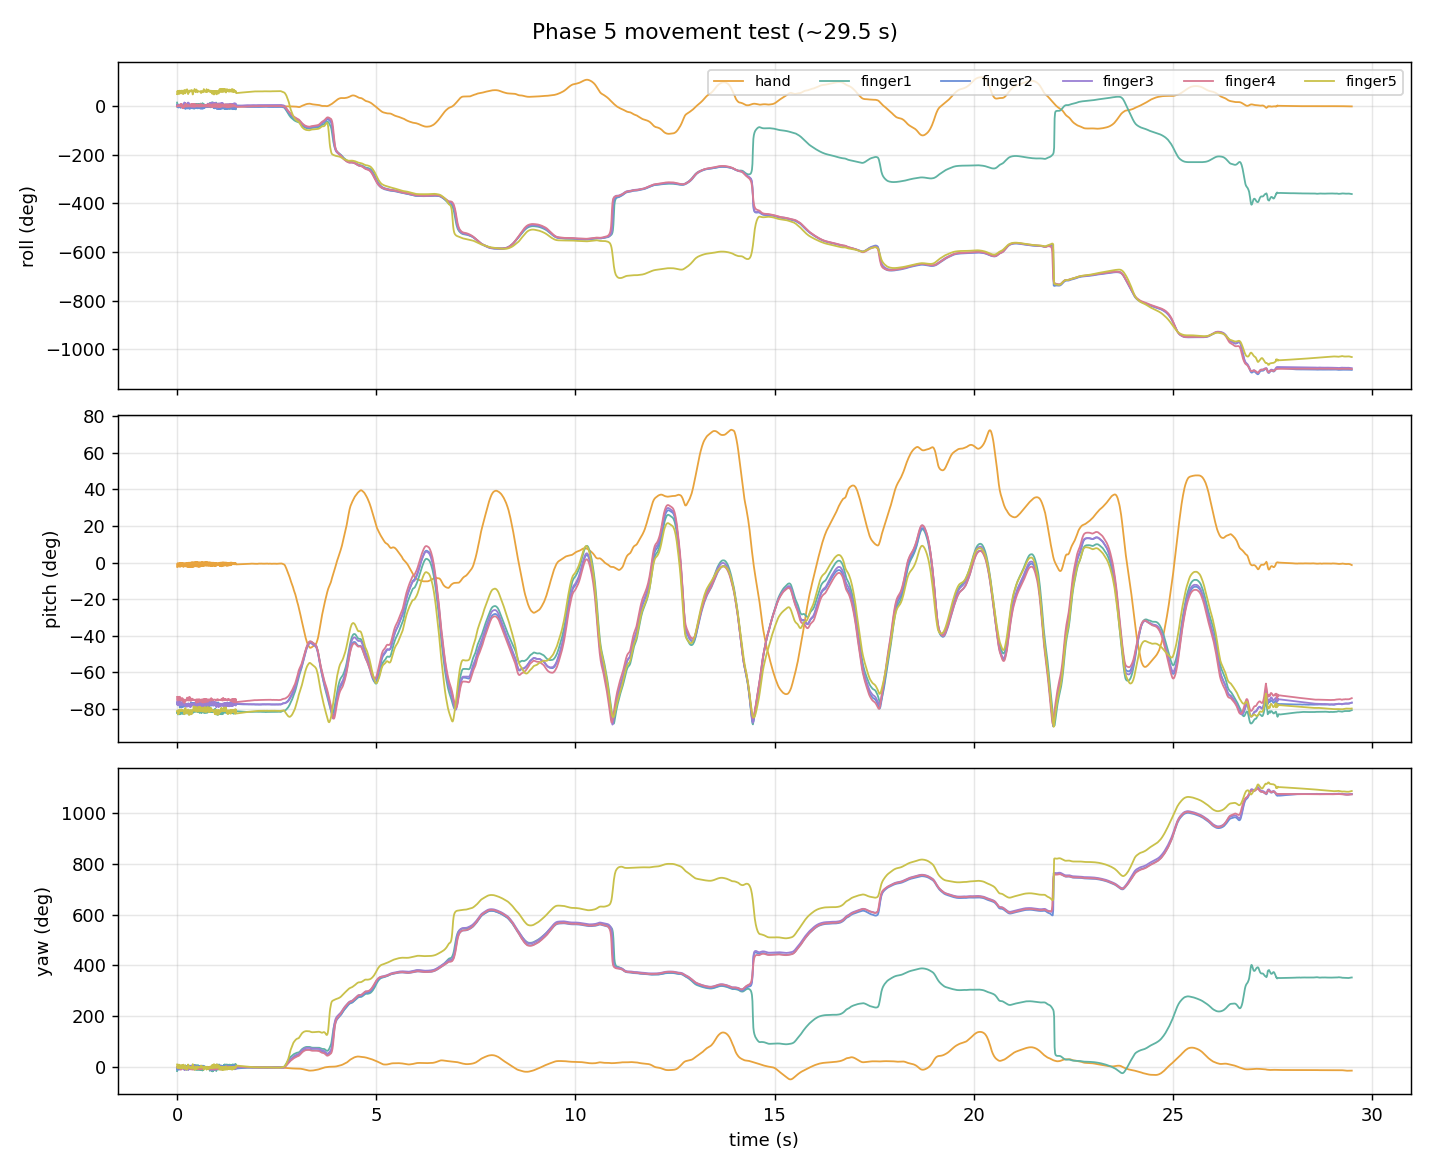
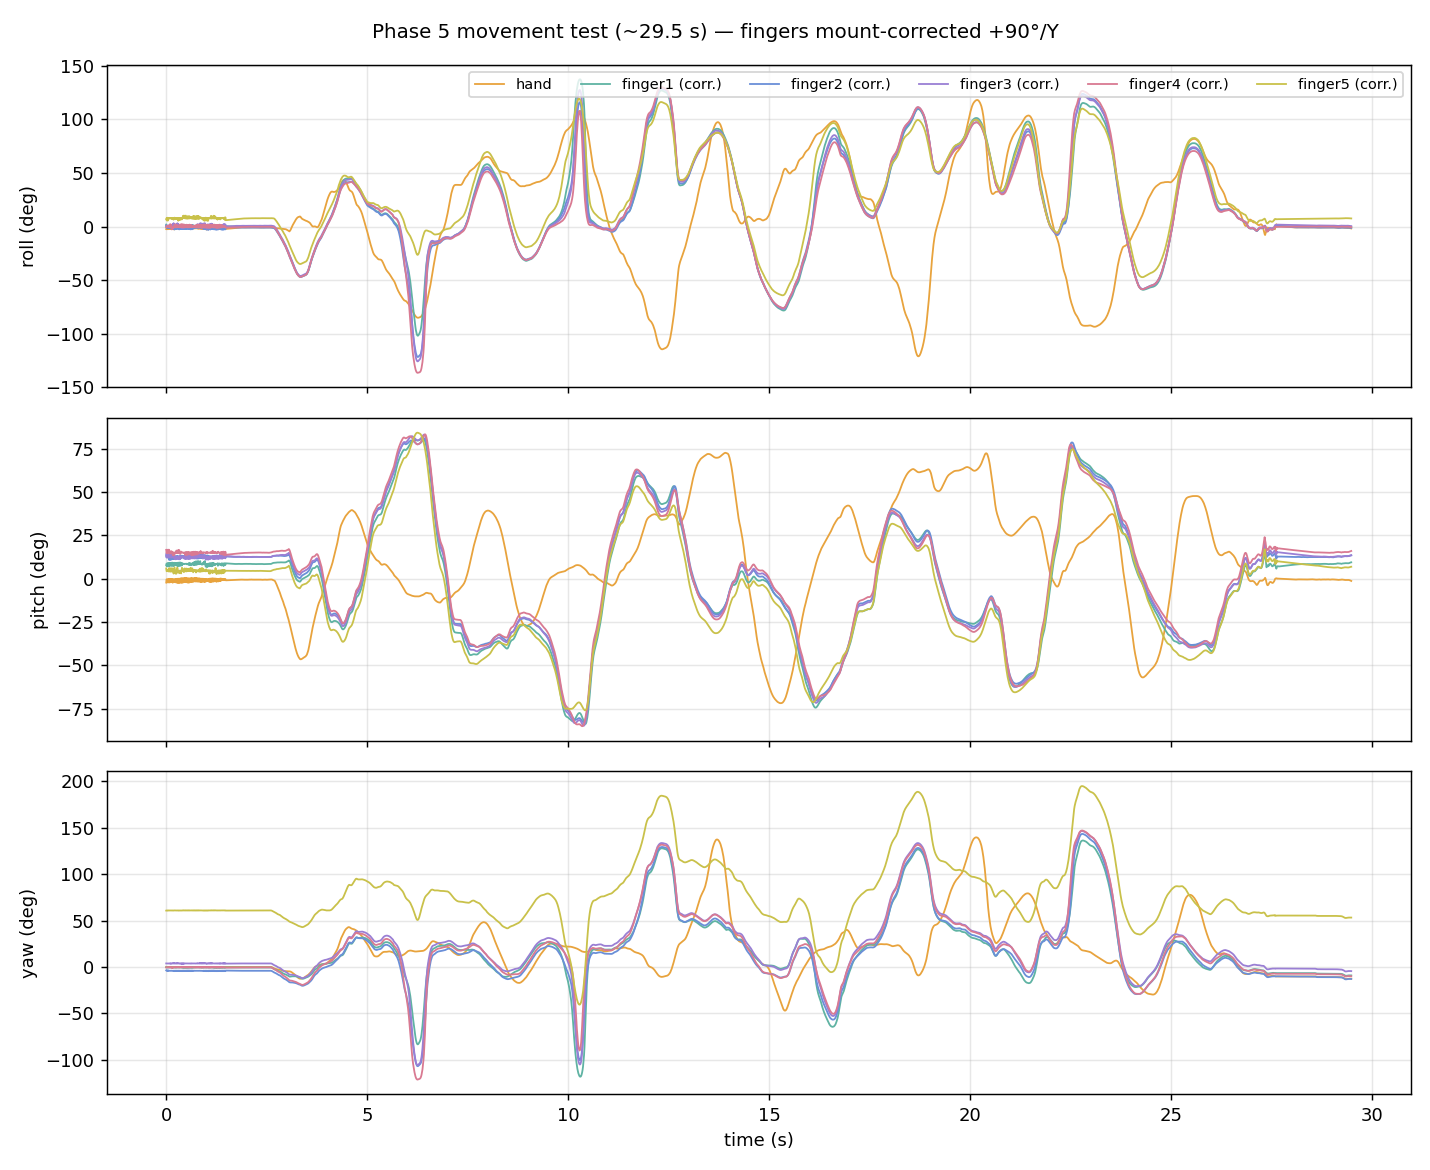
fix(phase-5): correct plot_fusion.py column bug, add mount-angle correction + finding
plot_fusion.py had an indexing bug plotting raw millis as roll. Fixed, and
added a verified +90deg/local-Y correction for finger sensors so plots are
comparable to the hand sensor - the ~90deg gap between hand and finger
absolute pitch is a breadboard mounting-angle artifact (fingers plugged in
upright, hand lying flatter), not a sensor fault. Finger 5 doesn't line up
under the same correction, pointing at a genuinely different mount angle
for that sensor rather than just higher noise. Logged as a decision.

diff --git a/tools/plot_fusion.py b/tools/plot_fusion.py
@@ -10,12 +10,29 @@ what the filter output actually does over time: does roll/pitch sit flat
 when the rig is still, does yaw creep, does anything jump or go flat
 (a stuck/dead sensor's line would flatline).
 
+Mounting correction (on by default, --no-mount-correction to disable):
+The finger MPU-6050 breakout modules are plugged straight into the
+breadboard (standing upright on their pin legs), while the XIAO (hand,
+sensor 0) sits closer to flat. That ~90 degree difference in physical
+mounting angle - not a sensor fault - is why raw finger pitch reads
+~-75 to -80 deg while the hand reads ~0 deg even though everything sits on
+the same breadboard (see DOCUMENTATION.md / DECISIONS.md, 2026-07-17).
+This script applies a fixed +90 deg rotation about each finger sensor's
+own local Y-axis (q_corrected = q_raw (x) q_offset) before computing Euler
+angles, purely so the plot is easier to eyeball against the hand sensor.
+This is NOT the real Phase 6 q_rel = conj(q_hand) (x) q_finger computation -
+it's a rough, fixed, hand-picked correction for this one rig's approximate
+mounting angle, not derived per-session from data. Finger 5 does NOT line
+up under this correction as well as fingers 1-4 do, which is itself a
+finding: it's mounted at a distinctly different angle, not just noisier.
+
 Usage:
     python plot_fusion.py ../data/phase5_madgwick_fusion/capture_02_drift.csv \
         --save ../docs/media/phase5_drift_rpy.png --title "Drift test (held still)"
 """
 
 import argparse
+import math
 from collections import defaultdict
 from pathlib import Path
 
@@ -24,8 +41,35 @@ import matplotlib.pyplot as plt
 SENSOR_NAMES = {0: "hand", 1: "finger1", 2: "finger2", 3: "finger3", 4: "finger4", 5: "finger5"}
 COLORS = {0: "#e8a33d", 1: "#5fb3a3", 2: "#6a8fd8", 3: "#9a7fd4", 4: "#d97a92", 5: "#c9c14a"}
 
+# Fixed rough mount correction: +90 deg about local Y, applied to finger
+# sensors only (sensor_id != 0). See module docstring for why.
+_MOUNT_CORRECTION_Q = (math.cos(math.radians(45)), 0.0, math.sin(math.radians(45)), 0.0)
+
+
+def qmul(a, b):
+    """Hamilton product a (x) b, both (w,x,y,z)."""
+    aw, ax, ay, az = a
+    bw, bx, by, bz = b
+    return (
+        aw * bw - ax * bx - ay * by - az * bz,
+        aw * bx + ax * bw + ay * bz - az * by,
+        aw * by - ax * bz + ay * bw + az * bx,
+        aw * bz + ax * by - ay * bx + az * bw,
+    )
+
+
+def quat_to_euler_deg(q):
+    """Same roll/pitch/yaw convention as the firmware's quatToEuler()."""
+    w, x, y, z = q
+    roll = math.atan2(2 * (w * x + y * z), 1 - 2 * (x * x + y * y))
+    s = max(-1.0, min(1.0, 2 * (w * y - z * x)))
+    pitch = math.asin(s)
+    yaw = math.atan2(2 * (w * z + x * y), 1 - 2 * (y * y + z * z))
+    return tuple(math.degrees(v) for v in (roll, pitch, yaw))
+
 
 def load(path: Path):
+    """Returns {sid: [(ms, qw,qx,qy,qz), ...]}."""
     rows = defaultdict(list)
     with path.open(encoding="utf-8", errors="replace") as f:
         for line in f:
@@ -38,10 +82,10 @@ def load(path: Path):
             try:
                 ms = int(parts[0])
                 sid = int(parts[1])
-                roll, pitch, yaw = float(parts[6]), float(parts[7]), float(parts[8])
+                q = tuple(float(x) for x in parts[2:6])
             except ValueError:
                 continue
-            rows[sid].append((ms, roll, pitch, yaw))
+            rows[sid].append((ms, q))
     return rows
 
 
@@ -60,6 +104,8 @@ def main():
     ap.add_argument("csv", type=Path)
     ap.add_argument("--save", type=Path, default=None)
     ap.add_argument("--title", default=None)
+    ap.add_argument("--no-mount-correction", action="store_true",
+                     help="plot raw per-sensor Euler angles, skip the +90deg/Y finger correction")
     args = ap.parse_args()
 
     rows = load(args.csv)
@@ -73,11 +119,21 @@ def main():
     labels = ["roll (deg)", "pitch (deg)", "yaw (deg)"]
     for sid in sorted(rows):
         r = rows[sid]
-        t = [(ms - t0) / 1000.0 for ms, *_ in r]
-        roll = unwrap_deg([v[1] for v in r])
-        pitch = unwrap_deg([v[2] for v in r])
-        yaw = unwrap_deg([v[3] for v in r])
+        t = [(ms - t0) / 1000.0 for ms, _ in r]
+
+        apply_corr = sid != 0 and not args.no_mount_correction
+        eulers = []
+        for _, q in r:
+            qc = qmul(q, _MOUNT_CORRECTION_Q) if apply_corr else q
+            eulers.append(quat_to_euler_deg(qc))
+
+        roll = unwrap_deg([e[0] for e in eulers])
+        pitch = unwrap_deg([e[1] for e in eulers])
+        yaw = unwrap_deg([e[2] for e in eulers])
+
         name = SENSOR_NAMES.get(sid, str(sid))
+        if apply_corr:
+            name += " (corr.)"
         color = COLORS.get(sid, "#888888")
         for ax, series in zip(axes, (roll, pitch, yaw)):
             ax.plot(t, series, label=name, color=color, linewidth=1)
@@ -87,7 +143,10 @@ def main():
         ax.grid(alpha=0.3)
     axes[0].legend(loc="upper right", ncol=6, fontsize=8)
     axes[-1].set_xlabel("time (s)")
-    fig.suptitle(args.title or f"Phase 5 fused orientation - {args.csv.name}")
+    default_title = f"Phase 5 fused orientation - {args.csv.name}"
+    if not args.no_mount_correction:
+        default_title += "\n(fingers rotated +90deg/local-Y to roughly align with hand sensor for comparison)"
+    fig.suptitle(args.title or default_title, fontsize=11)
     fig.tight_layout()
 
     if args.save:

diff --git a/data/phase5_madgwick_fusion/README.md b/data/phase5_madgwick_fusion/README.md
@@ -114,23 +114,71 @@ number, until a multi-minute capture confirms them.
 ```bash
 cd tools
 python plot_fusion.py ../data/phase5_madgwick_fusion/capture_02_drift.csv \
-    --save ../docs/media/phase5_drift_rpy.png --title "Phase 5 drift test (held still, ~31.5 s)"
+    --save ../docs/media/phase5_drift_rpy.png
 python plot_fusion.py ../data/phase5_madgwick_fusion/capture_01_movement.csv \
-    --save ../docs/media/phase5_movement_rpy.png --title "Phase 5 movement test (~29.5 s)"
+    --save ../docs/media/phase5_movement_rpy.png
+# pass --no-mount-correction to see the raw, uncorrected per-sensor angles instead
 ```
 
-`docs/media/phase5_drift_rpy.png` — roll/pitch/yaw vs. time, one line per
-sensor, unwrapped so ±180° crossings don't show as vertical jumps. Confirms
-the table above visually: roll and pitch sit flat for the full 31.5 s, yaw
-is a tight noise band for the fingers with the hand sensor showing a small,
-slow upward creep.
+Both plots apply a fixed **+90° rotation about each finger sensor's local
+Y-axis** (`q_corrected = q_raw ⊗ q_offset`) before computing Euler angles,
+purely to make the fingers visually comparable to the hand sensor — see
+"Why hand and finger angles differ so much" below and DECISIONS.md
+(2026-07-17) for what this correction is and isn't.
 
-`docs/media/phase5_movement_rpy.png` — same plot for the movement capture.
-Useful as a qualitative sanity check ahead of Phase 6: the five finger
-traces move together as one tight cluster through every swing, while the
-hand sensor's trace diverges independently — exactly the "fingers move
-coherently, hand is a separate reference" structure that `q_rel = conj(q_hand)
-⊗ q_finger` depends on.
+`docs/media/phase5_drift_rpy.png` — roll/pitch/yaw vs. time, one line per
+sensor, unwrapped so ±180° crossings don't show as vertical jumps. With the
+mount correction applied, roll and yaw for fingers 1-4 sit close to the
+hand's baseline (within a few degrees), pitch settles to a small residual
+9-16° per finger (their real resting tilt, not mounting error) — and
+finger 5 visibly does **not** line up the way 1-4 do, sitting apart on all
+three axes. Confirms the table above: everything stays flat for the full
+31.5 s (no drift), and finger 5 is mounted differently, not just noisier.
+
+`docs/media/phase5_movement_rpy.png` — same correction, movement capture.
+Useful as a qualitative sanity check ahead of Phase 6: with the mount
+correction applied, the five finger traces move together as one cluster
+through every swing (finger 5 tracking the same shape but visibly offset),
+while the hand sensor's trace diverges independently — exactly the
+"fingers move coherently, hand is a separate reference" structure that
+`q_rel = conj(q_hand) ⊗ q_finger` depends on.
+
+### Why hand and finger angles differ so much on the same breadboard
+
+Absolute roll/pitch/yaw are **per-sensor-local** - each IMU reports its tilt
+relative to gravity in its *own* body frame, not a frame shared across
+sensors. Two chips on the same breadboard can report very different
+numbers simply because they're tilted differently, and that's exactly
+what's happening here: the finger MPU-6050 breakout modules are plugged
+straight into the breadboard rows (standing upright on their pin legs),
+while the XIAO (hand, sensor 0) sits closer to flat. That's roughly a 90°
+difference in physical mounting angle, and it shows up almost exactly that
+way in the data - raw finger pitch sits near -75° to -80° while the hand
+sits near 0°.
+
+Verified with actual quaternion math (not just eyeballed): applying a fixed
++90° rotation about each finger sensor's local Y-axis
+(`q_corrected = q_raw ⊗ q_offset`, `q_offset` = 90° about Y) brings fingers
+1-4's roll and yaw into close agreement with the hand sensor, e.g. finger 1
+goes from raw `(roll=-2.1, pitch=-80.7, yaw=0.3)` to corrected
+`(roll=-0.4, pitch=9.3, yaw=-1.8)` against the hand's `(-1.6, -1.1, 0.0)` -
+close on roll and yaw, with the remaining ~9-16° of pitch being each
+finger's actual resting tilt on the bench, not mounting error.
+
+**Finger 5 does not follow the same pattern** - the identical correction
+leaves it out of alignment with the other four (its yaw stays near 56°
+instead of settling near 0 like fingers 1-4's ~-2 to +3°). Combined with
+finger 5's consistently elevated gyro noise across every capture so far,
+this points at finger 5 being seated in its breadboard slot at a genuinely
+different angle than the other four, not merely a noisier unit. Worth a
+physical check before glove-mounting.
+
+This is expected behavior, not a bug, and doesn't need fixing for the real
+pipeline - it's exactly why Phase 6 computes `q_rel = conj(q_hand) ⊗
+q_finger` instead of comparing absolute angles. The `+90°/Y` correction
+here is a one-off, hand-picked constant for making *this rig's* plots
+readable; it is explicitly not that calculation and won't carry over once
+sensors are mounted on the glove at their intended angles.
 
 ### Movement capture (`capture_01_movement.csv`)
 

diff --git a/DOCUMENTATION.md b/DOCUMENTATION.md
@@ -34,6 +34,23 @@ Rules:
 
 ---
 
+### 2026-07-17 | Phase 5 visualization fix + mounting-angle explanation, finger 5 mount anomaly found
+
+**Plan:** Visualize the two Phase 5 captures (drift + movement) as roll/pitch/yaw time series, then investigate why the hand (onboard) sensor's readings differ so much from the five finger sensors even though everything sits on the same breadboard.
+
+**Achieved:**
+- **Wrote `tools/plot_fusion.py`** — first version had a real bug: it plotted `millis` timestamps as if they were roll, making it look like roll ramped to 45,000° over 30 seconds. Fixed the column indexing.
+- **Diagnosed the hand-vs-finger angle gap.** Raw finger pitch sits near -75° to -80° while the hand sits near 0° — not a sensor fault. The finger MPU-6050 breakout modules are plugged straight into the breadboard (standing upright on their pin legs) while the XIAO sits closer to flat, so gravity lands on a different local axis for each. Verified with actual quaternion math (not guessed): a fixed +90° rotation about each finger sensor's local Y-axis brings fingers 1-4's roll and yaw into close agreement with the hand sensor, leaving a small residual pitch (9-16°, each finger's real resting tilt).
+- **Finger 5 does not follow the pattern** — the same correction leaves it out of alignment with fingers 1-4 (yaw stays near 56° instead of settling near 0). Combined with finger 5's consistently elevated gyro noise across every capture this session and last, this points at finger 5 being seated at a genuinely different angle in its breadboard slot, not just a noisier unit.
+- **Added the correction to `plot_fusion.py`** as an opt-out (`--no-mount-correction`), clearly documented as a rough, hand-picked, visualization-only fix — not a substitute for Phase 6's real `q_rel = conj(q_hand) ⊗ q_finger`, which will handle this properly and per-session regardless of how each sensor happens to be mounted.
+- Regenerated `docs/media/phase5_drift_rpy.png` and `phase5_movement_rpy.png` with the correction applied; both now show fingers 1-4 clustering close to the hand's baseline, with finger 5 visibly offset. Logged the correction as a design decision in DECISIONS.md (2026-07-17).
+
+**Problems & blockers:** None beyond the initial plotting bug (caught before it made it into the docs). The mount-angle explanation is inferred from the data and physical reasoning about how breadboard-mounted breakout modules typically sit, not confirmed by physically measuring the rig's angles — worth a quick visual check next session.
+
+**Next:** Before glove-mounting, physically check finger 5's breadboard orientation against fingers 1-4 to confirm the mount-angle theory. Once on the glove, sensors will be mounted at deliberate, known angles (flat on each phalanx) so this particular ~90° bench artifact goes away — but the underlying lesson (compare `q_rel`, never raw absolute angles) carries forward permanently.
+
+---
+
 ### 2026-07-17 | Phase 5 second pass — seeded orientation, two-stage β, first bench drift + movement data
 
 **Plan:** Replace the first Madgwick fusion sketch with an improved version (accel-seeded initial orientation, two-stage β, roll/pitch/yaw output), then bench-test it with a still-hold drift capture and a movement capture, and give a final read on whether the 6 sensors are healthy and how to best configure them going forward.

diff --git a/DECISIONS.md b/DECISIONS.md
@@ -19,6 +19,16 @@ Keep entries short (~3 sentences each). Log a decision the moment it's made.
 
 ## Decisions
 
+### 2026-07-17 | Fixed +90°/Y visualization correction for finger sensors, not a real mount calibration
+
+**Alternatives:** (a) plot each sensor's raw absolute roll/pitch/yaw as-is, accepting that fingers and hand look wildly different because they're mounted at different physical angles on the bench; (b) apply a per-session, data-derived mount-offset correction (e.g. compute it from each capture's own seed-accel reading); (c) apply one fixed, hand-picked correction quaternion (+90° about each finger sensor's local Y-axis) to all finger sensors in `tools/plot_fusion.py`, purely for visual comparison.
+
+**Choice:** (c), applied only in the plotting tool, clearly labeled as a rough diagnostic and explicitly not a substitute for Phase 6's real `q_rel = conj(q_hand) ⊗ q_finger`.
+
+**Rationale:** The raw finger pitch sitting near -75° to -80° while the hand sits near 0° isn't a sensor fault — the GY-521 finger modules are plugged straight into the breadboard (standing upright on their pin legs) while the XIAO sits closer to flat, so gravity shows up on a different local axis for each. A single fixed +90°/Y correction (verified by hand with quaternion math, not guessed) brings fingers 1-4's roll and yaw into close agreement with the hand sensor, leaving a small residual pitch (9-16°, their real physical tilt) — good enough to make the plots readable side by side. It deliberately does **not** attempt a proper per-sensor mount calibration, because that's Phase 6's job once sensors are actually glove-mounted at known angles; doing it properly now, on a temporary breadboard rig, would be wasted precision. Trade-off / finding: the same correction does **not** line up finger 5, which stays off by roughly the same amount it was before — this is itself useful signal that finger 5 is mounted at a distinctly different angle than 1-4, not merely noisier as previously suspected (see DOCUMENTATION.md 2026-07-17).
+
+---
+
 ### 2026-07-17 | Accel-seeded orientation + two-stage β, instead of identity start + fixed β
 
 **Alternatives:** (a) start every filter at identity `(1,0,0,0)` with a single fixed β and let accel correction converge it over several seconds, (b) seed each filter's initial quaternion from its own calibration-window accel average (roll/pitch only — yaw is unobservable), with a temporarily high β right after seeding that drops to a lower steady-state value once converged.